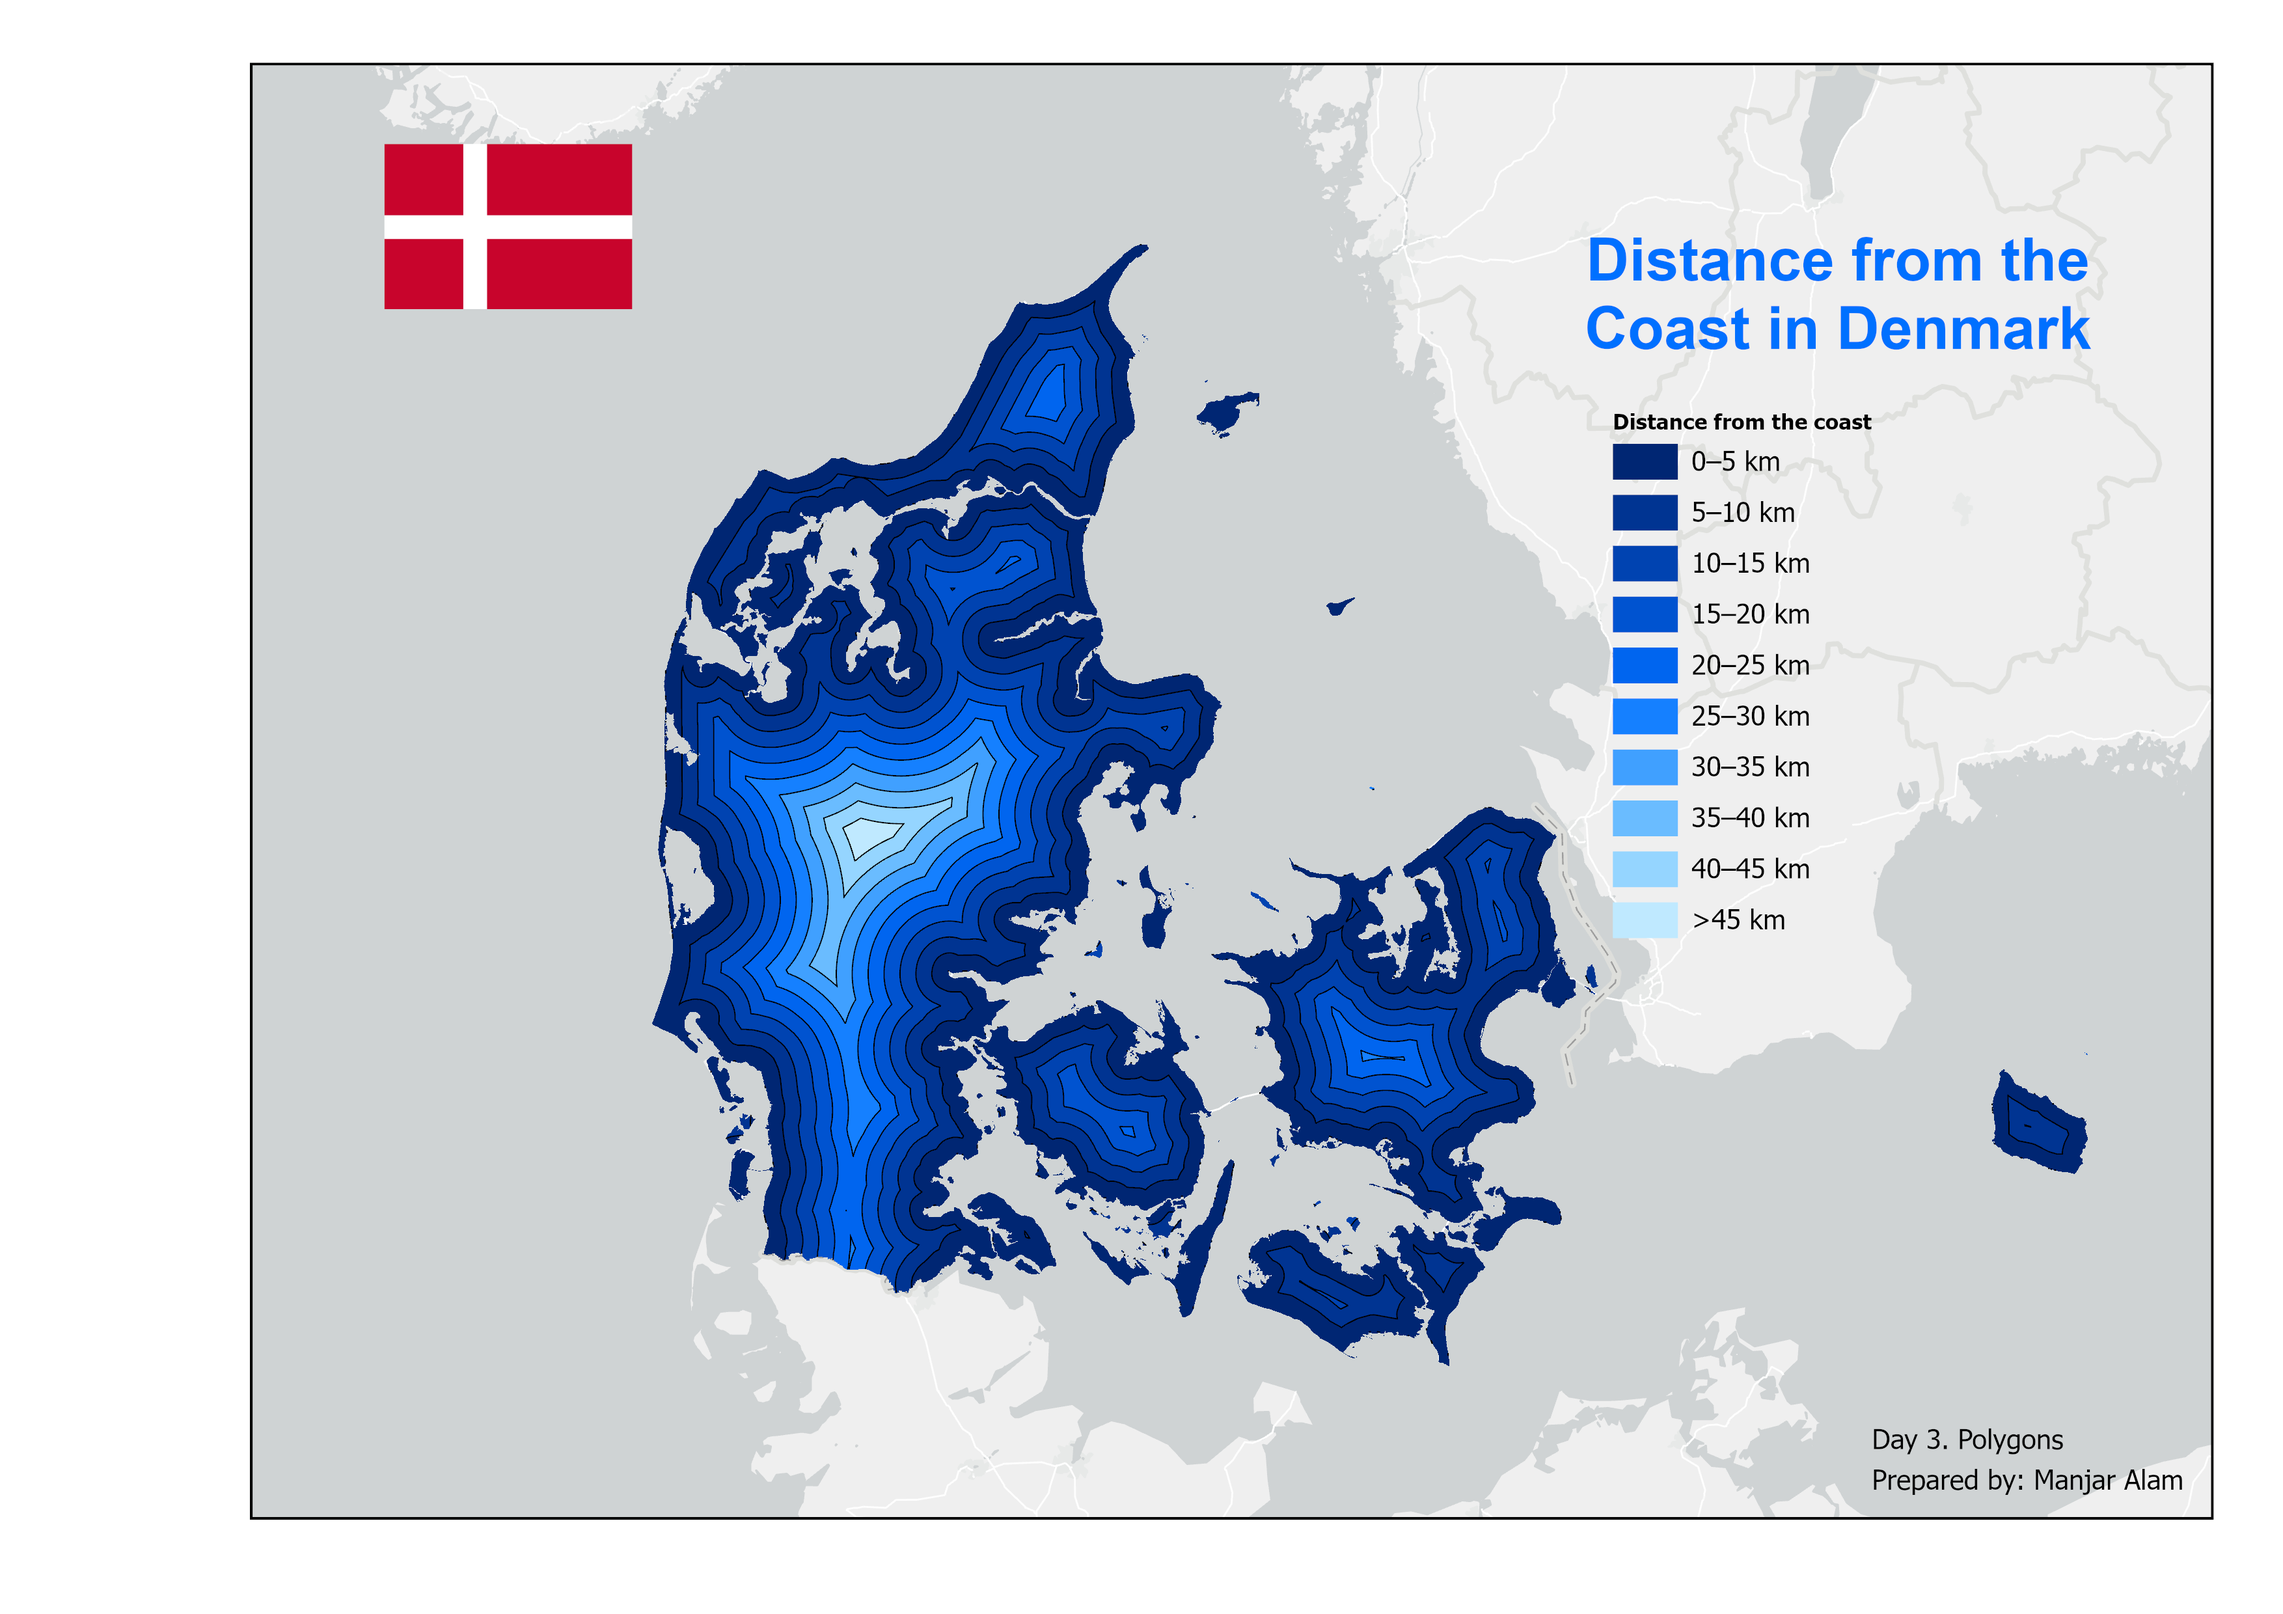
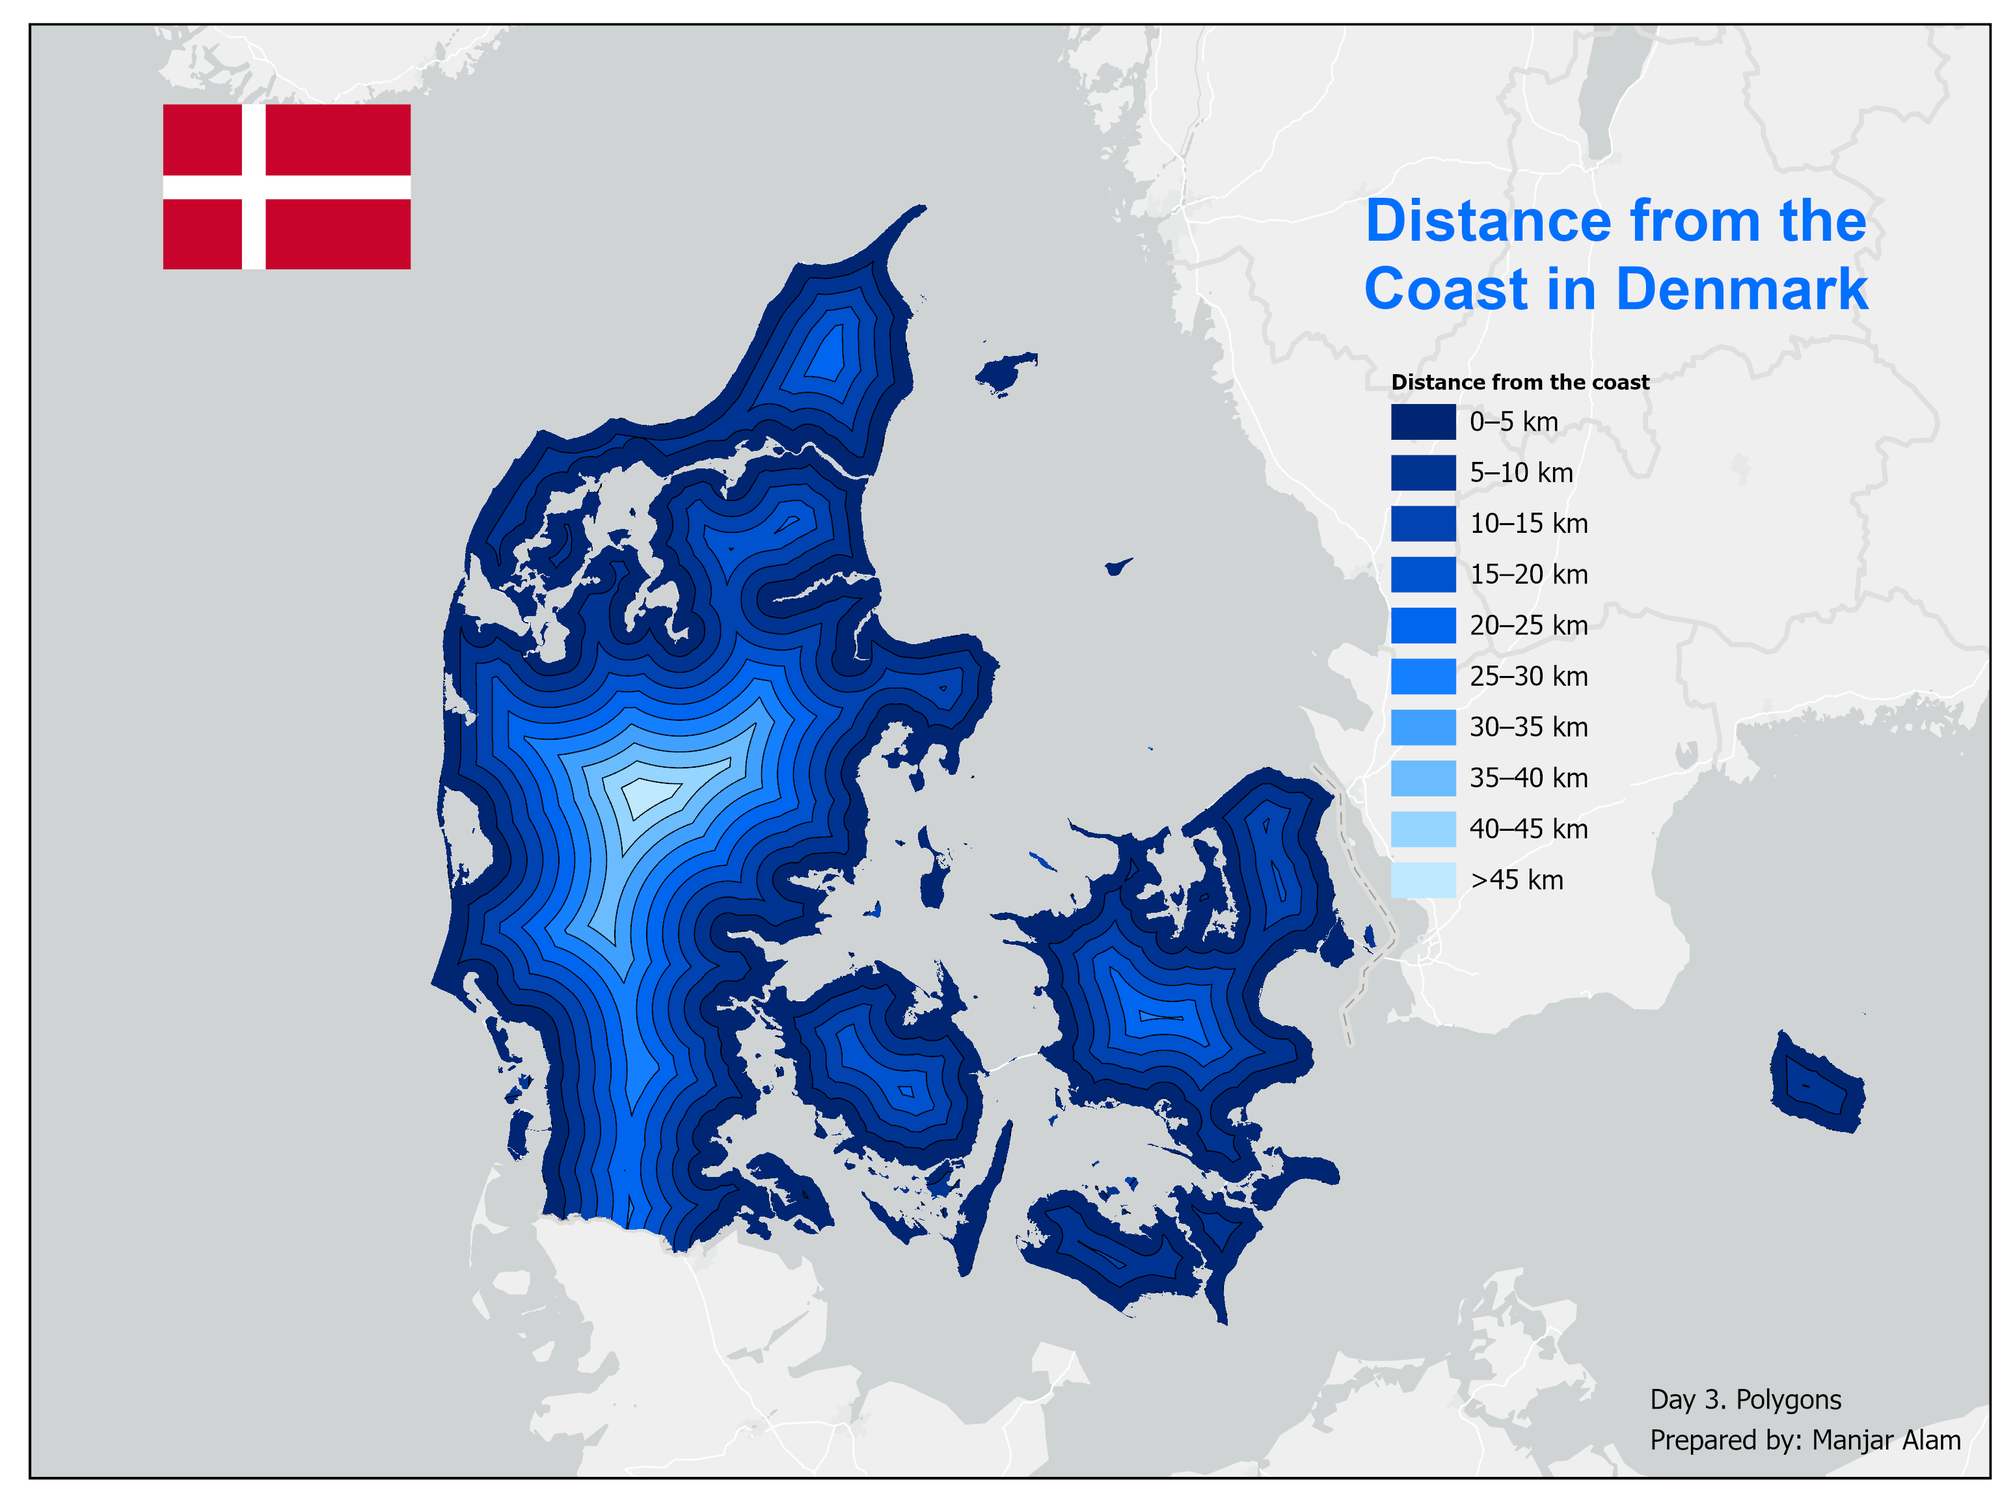
Day5

diff --git a/docs/30_days_map_challenge.md b/docs/30_days_map_challenge.md
@@ -5,7 +5,7 @@ hide:
 ---
 
 <div align="center" markdown> 
-# 30-Day Map Challenge
+# #30DayMapChallenge
 
 A collection of 30 days of geospatial exploration, combining GIS, Remote Sensing, Python, spatial analysis, interactive mapping, and cartographic design. Each map explores a different geographical theme, from urban networks and land use to vegetation, climate, terrain, hydrology, and global connectivity.
 
@@ -45,8 +45,6 @@ The Ganga: A River and Its Tributaries
 [View Project](30_day_map/maps_md/day-02.md){ .md-button }
 </div>
 
-</div>
-
 <!-- Day 03 -->
 <div class="project-card" markdown>
 ![Beyond the Shore: Mapping Coastal Distance](30_day_map/maps_png/day_3_polygons.png)
@@ -75,8 +73,23 @@ Satellite-based active fire mapping and spatial clustering
 [View Project](30_day_map/maps_md/day-04.md){ .md-button }
 </div>
 
+<!-- Day 05 -->
+<div class="project-card" markdown>
+![3D terrain visualization and elevation mapping](30_day_map/maps_png/day_5_sight.png)
+
+**[Day 5. Sight](30_day_map/maps_md/day-05.md)**
+
+
+3D terrain visualization and elevation mapping
+
+ `terrain` `sight` `Uttarakhand` `elevation` 
+
+[View Project](30_day_map/maps_md/day-05.md){ .md-button }
+</div>
+
+
 ---
 
 ## Explore the Maps
-
+</div>
 Each project page provides a summary of the map, its methods and tools, and links to the interactive HTML output and source code where available. The gallery is a showcase of geospatial learning, experimentation, and cartographic design.

diff --git a/docs/30_day_map/maps_md/day-05.md b/docs/30_day_map/maps_md/day-05.md
@@ -1,0 +1,31 @@
+
+# Day 5.  The Visible Himalayas
+![Project overview image](/30_day_map/maps_png/day_3_polygons.png)
+## Overview
+
+- **Theme:** Sight
+- **Project type:** 3D terrain visualization and elevation mapping
+- **Study area:** Uttarakhand, India
+
+This project presents a three-dimensional view of Uttarakhand's Himalayan landscape using digital elevation data and hillshade. By combining elevation colours with terrain shading, the map highlights the region's mountain ranges, valleys and variations in topography. River networks provide additional geographical context to the terrain.
+
+
+## Data & Tools
+**Data Sources**
+
+- [SRTM DEM](https://www.opendem.info/download_srtm.html)
+- [HydroRIVERS](https://www.hydrosheds.org/products/hydrorivers)
+- [State Boundary](https://diva-gis.org/data.html)
+
+**Tools Used**
+
+* ArcMap, ArcGIS Pro
+* DEM processing and hillshade generation
+* 3D terrain visualization
+
+## Key takeaways
+
+- The 3D visualization highlights the complex Himalayan relief of Uttarakhand.
+- Combining DEM and hillshade enhances the perception of elevation, ridges and valleys.
+- River networks provide geographical context to the mountainous landscape.
+- The map demonstrates how elevation data can transform a conventional terrain map into an immersive visual representation.
